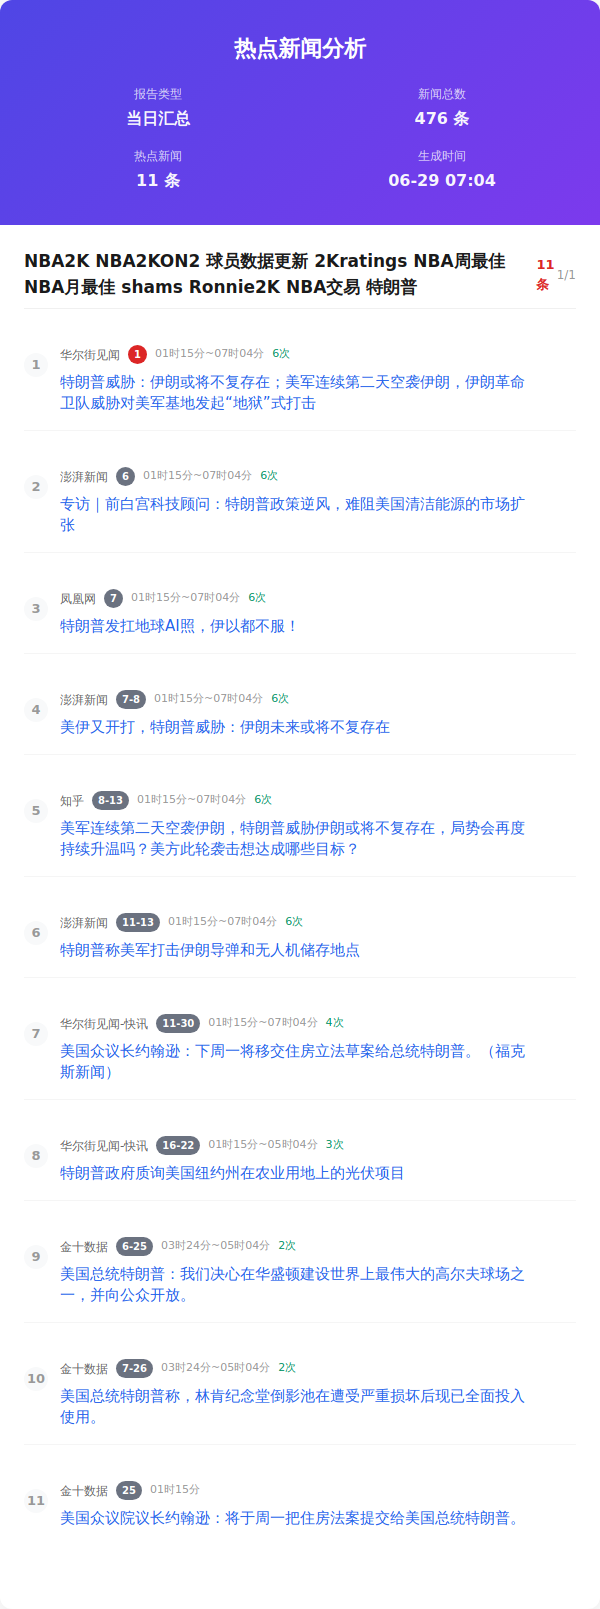
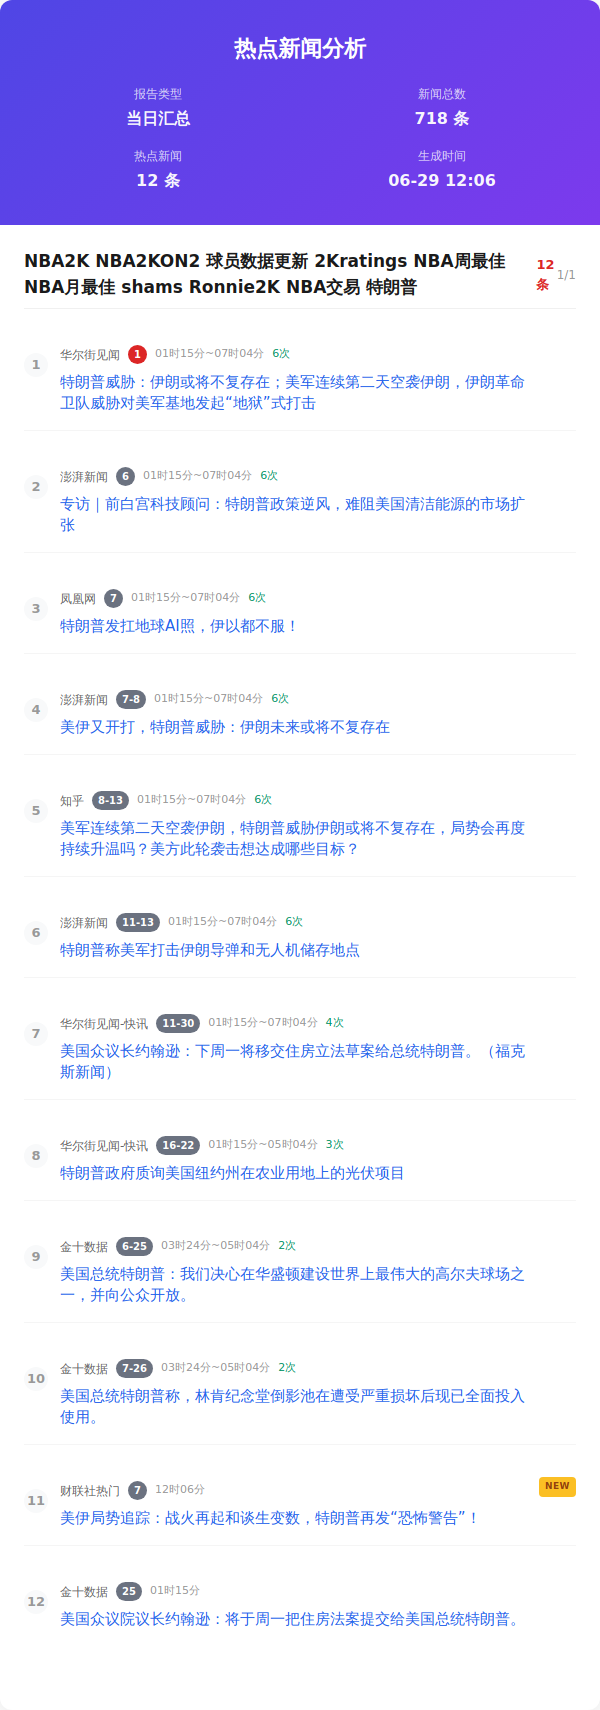
Auto update by GitHub Actions at Mon Jun 29 12:06:56 CST 2026

diff --git a/index.html b/index.html
@@ -357,15 +357,15 @@
                     </div>
                     <div class="info-item">
                         <span class="info-label">新闻总数</span>
-                        <span class="info-value">476 条</span>
+                        <span class="info-value">718 条</span>
                     </div>
                     <div class="info-item">
                         <span class="info-label">热点新闻</span>
-                        <span class="info-value">11 条</span>
+                        <span class="info-value">12 条</span>
                     </div>
                     <div class="info-item">
                         <span class="info-label">生成时间</span>
-                        <span class="info-value">06-29 07:04</span>
+                        <span class="info-value">06-29 12:06</span>
                     </div>
                 </div>
             </div>
@@ -375,7 +375,7 @@
                     <div class="word-header">
                         <div class="word-info">
                             <div class="word-name">NBA2K NBA2KON2 球员数据更新 2Kratings NBA周最佳 NBA月最佳 shams Ronnie2K NBA交易 特朗普</div>
-                            <div class="word-count hot">11 条</div>
+                            <div class="word-count hot">12 条</div>
                         </div>
                         <div class="word-index">1/1</div>
                     </div>
@@ -479,8 +479,18 @@
                             </div>
                         </div>
                     </div>
-                    <div class="news-item ">
+                    <div class="news-item new">
                         <div class="news-number">11</div>
+                        <div class="news-content">
+                            <div class="news-header">
+                                <span class="source-name">财联社热门</span><span class="rank-num ">7</span><span class="time-info">12时06分</span>
+                            </div>
+                            <div class="news-title"><a href="https://www.cls.cn/detail/2411269" target="_blank" class="news-link">美伊局势追踪：战火再起和谈生变数，特朗普再发“恐怖警告”！</a>
+                            </div>
+                        </div>
+                    </div>
+                    <div class="news-item ">
+                        <div class="news-number">12</div>
                         <div class="news-content">
                             <div class="news-header">
                                 <span class="source-name">金十数据</span><span class="rank-num ">25</span><span class="time-info">01时15分</span>

diff --git a/output/2026年06月29日/html/当日汇总.html b/output/2026年06月29日/html/当日汇总.html
@@ -357,15 +357,15 @@
                     </div>
                     <div class="info-item">
                         <span class="info-label">新闻总数</span>
-                        <span class="info-value">476 条</span>
+                        <span class="info-value">718 条</span>
                     </div>
                     <div class="info-item">
                         <span class="info-label">热点新闻</span>
-                        <span class="info-value">11 条</span>
+                        <span class="info-value">12 条</span>
                     </div>
                     <div class="info-item">
                         <span class="info-label">生成时间</span>
-                        <span class="info-value">06-29 07:04</span>
+                        <span class="info-value">06-29 12:06</span>
                     </div>
                 </div>
             </div>
@@ -375,7 +375,7 @@
                     <div class="word-header">
                         <div class="word-info">
                             <div class="word-name">NBA2K NBA2KON2 球员数据更新 2Kratings NBA周最佳 NBA月最佳 shams Ronnie2K NBA交易 特朗普</div>
-                            <div class="word-count hot">11 条</div>
+                            <div class="word-count hot">12 条</div>
                         </div>
                         <div class="word-index">1/1</div>
                     </div>
@@ -479,8 +479,18 @@
                             </div>
                         </div>
                     </div>
-                    <div class="news-item ">
+                    <div class="news-item new">
                         <div class="news-number">11</div>
+                        <div class="news-content">
+                            <div class="news-header">
+                                <span class="source-name">财联社热门</span><span class="rank-num ">7</span><span class="time-info">12时06分</span>
+                            </div>
+                            <div class="news-title"><a href="https://www.cls.cn/detail/2411269" target="_blank" class="news-link">美伊局势追踪：战火再起和谈生变数，特朗普再发“恐怖警告”！</a>
+                            </div>
+                        </div>
+                    </div>
+                    <div class="news-item ">
+                        <div class="news-number">12</div>
                         <div class="news-content">
                             <div class="news-header">
                                 <span class="source-name">金十数据</span><span class="rank-num ">25</span><span class="time-info">01时15分</span>